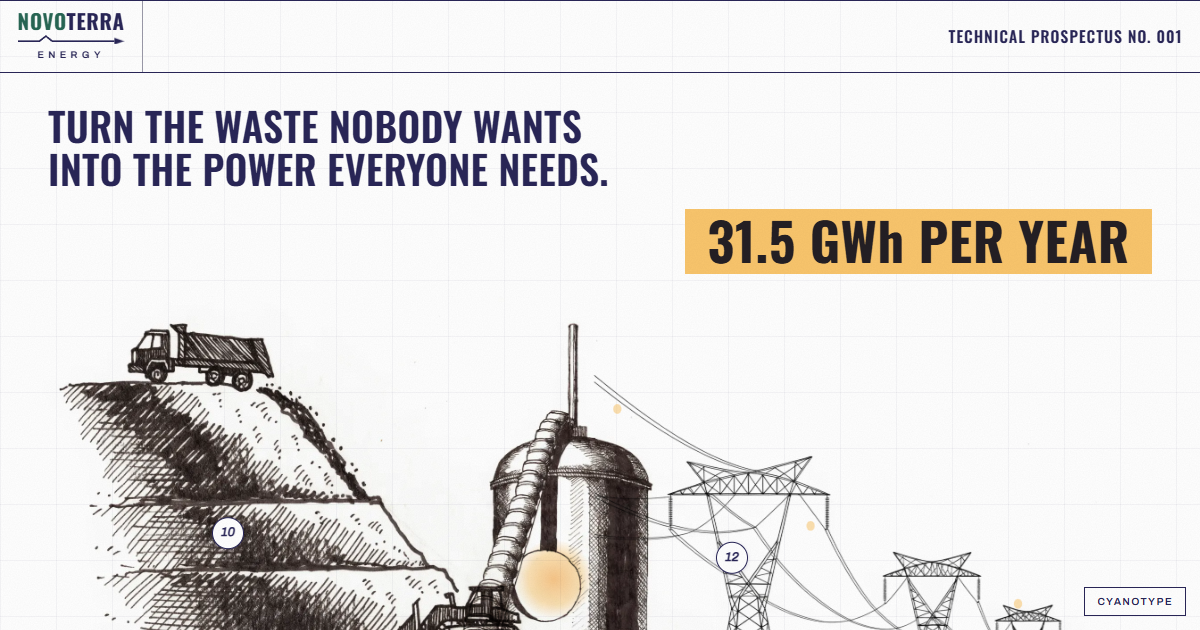
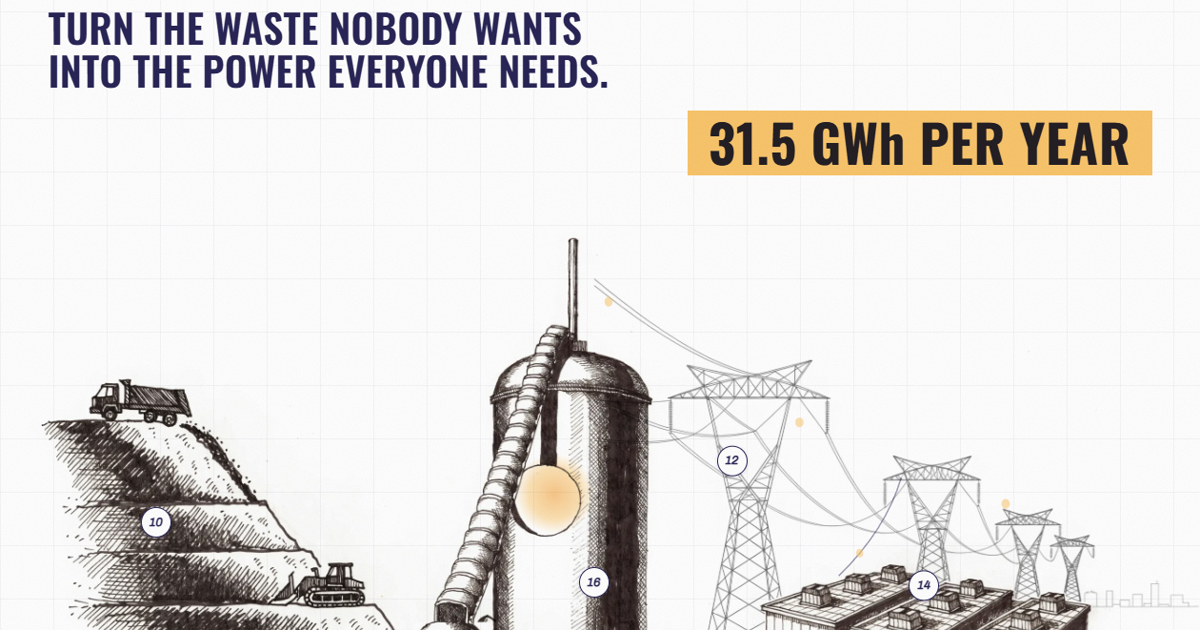
Machine triptych, scroll-only parallax, hero depth fixes

diff --git a/index.html b/index.html
@@ -159,6 +159,7 @@ h1{
 html.blueprint .hero-ember{mix-blend-mode:screen}
 .powerflow{position:absolute;inset:0;width:100%;height:100%;pointer-events:none}
 .powerflow .pulse{fill:var(--amber);opacity:.55}
+.powerflow .feeder{stroke:var(--navy);stroke-width:1.1;fill:none;opacity:.45}
 html.blueprint .powerflow .pulse{opacity:.8}
 @media (prefers-reduced-motion:reduce){
   .powerflow{display:none}
@@ -501,6 +502,7 @@ html.js .claims li.hl .cimg{opacity:1;transform:none}
 .flows dt{font-size:.72rem;letter-spacing:.1em;text-transform:uppercase;color:var(--muted);font-weight:500}
 .flows dd{font-weight:600;color:var(--ink);font-variant-numeric:tabular-nums;font-size:.98rem}
 .reactor{position:relative}
+.vessel-fig{position:relative}
 .reactor .core-glow{
   position:absolute;
   left:49.5%;top:50.5%;
@@ -538,39 +540,32 @@ html.js .claims li.hl .cimg{opacity:1;transform:none}
 .spec td:last-child{font-weight:600}
 .footnote{margin-top:1.1rem;font-size:.78rem;color:var(--muted);max-width:80ch}
 
-/* machine scroll phases: emphasis walks inputs, core, outputs (desktop only) */
+/* machine entrance: inputs, then the vessel and core note, then outputs (desktop only) */
 @media (min-width:1001px) and (prefers-reduced-motion:no-preference){
-  html.js .machine .flows,html.js .machine .reactor{transition:opacity .5s ease-out,transform .5s ease-out}
-  html.js .machine[data-phase="1"] .flows:last-of-type,
-  html.js .machine[data-phase="1"] .reactor{opacity:.4}
-  html.js .machine[data-phase="1"] .flows:first-of-type{transform:scale(1.04)}
-  html.js .machine[data-phase="2"] .flows{opacity:.4}
-  html.js .machine[data-phase="2"] .reactor{transform:scale(1.03)}
-  html.js .machine[data-phase="3"] .flows:first-of-type,
-  html.js .machine[data-phase="3"] .reactor{opacity:.4}
-  html.js .machine[data-phase="3"] .flows:last-of-type{transform:scale(1.04)}
+  html.js .machine .vessel-fig,html.js .machine .core-note{opacity:0;transform:translateY(12px);transition:opacity .6s ease-out,transform .6s ease-out}
+  html.js .machine.in .vessel-fig{opacity:1;transform:none;transition-delay:.2s}
+  html.js .machine.in .core-note{opacity:1;transform:none;transition:opacity .6s ease-out .45s,transform .6s ease-out .45s,background .4s ease-out}
 }
 
 /* core annotation */
 .core-note{
-  position:absolute;right:4%;top:-7%;width:14.5rem;
+  position:relative;width:min(22rem,92%);margin:2.4rem auto 0;
   background:var(--paper);border:1px solid var(--navy);
-  padding:.7rem .85rem .75rem;font-size:.78rem;line-height:1.5;
-  box-shadow:0 8px 22px rgba(41,38,87,.2);
+  padding:.8rem 1rem .85rem;font-size:.78rem;line-height:1.5;
+  box-shadow:0 8px 22px rgba(41,38,87,.14);
   scroll-margin-top:6rem;
   transition:background .4s ease-out;
 }
 .core-note::before{
-  content:"";position:absolute;top:62%;right:100%;
-  width:2.6rem;height:1.5px;background:var(--navy);
+  content:"";position:absolute;bottom:100%;left:50%;
+  width:1.5px;height:2.2rem;background:var(--navy);
 }
-.core-note .chead{display:block;font-size:.98rem;margin-bottom:.35rem}
+.core-note .chead{display:block;font-size:.98rem;margin-bottom:.35rem;text-align:center;text-wrap:balance}
 .core-note>span{display:block}
-.core-note .ticket{margin-top:.55rem}
 .core-note.flash{background:#fdeecd}
 @media (max-width:1000px){
-  .core-note{position:static;width:auto;margin-top:1rem;box-shadow:none}
-  .core-note::before{display:none}
+  .core-note{width:auto;margin-top:1.4rem;box-shadow:none}
+  .core-note::before{height:1.3rem}
 }
 .footnote--center{margin:.7rem auto 0;text-align:center}
 .proof-lead{max-width:66ch;margin-bottom:1.6rem;font-size:1.05rem;line-height:1.6}
@@ -698,7 +693,7 @@ html.blueprint .portrait img{filter:grayscale(1) brightness(1.05);mix-blend-mode
   .keyfigure{align-items:flex-start}
   .twocol{grid-template-columns:1fr}
   .machine{grid-template-columns:1fr}
-  .machine .reactor{order:-1;max-width:560px;margin:0 auto}
+  .machine .reactor{max-width:560px;margin:0 auto}
   .plates{grid-template-columns:1fr}
   .strip{grid-template-columns:auto 1fr}
   .strip .tag{display:none}
@@ -755,14 +750,16 @@ FINISH: unreviewed and undocumented is unfinished; this build ends with the fini
               <circle class="pulse" r="3.4"><animateMotion dur="9s" repeatCount="indefinite"><mpath href="#wirepath"/></animateMotion></circle>
               <circle class="pulse" r="3.4"><animateMotion dur="9s" begin="-3s" repeatCount="indefinite"><mpath href="#wirepath"/></animateMotion></circle>
               <circle class="pulse" r="3.4"><animateMotion dur="9s" begin="-6s" repeatCount="indefinite"><mpath href="#wirepath"/></animateMotion></circle>
+              <path id="feedpath" class="feeder" d="M751 202 C 742 228, 722 252, 699 271"/>
+              <circle class="pulse" r="3"><animateMotion dur="4.5s" repeatCount="indefinite"><mpath href="#feedpath"/></animateMotion></circle>
             </svg>
             <button class="pin" style="left:61%;top:50%" data-target="claim-2" data-part="12 · Interconnection">12</button>
           </div>
-          <div class="plx" data-depth=".3">
+          <div class="plx" data-depth=".16">
             <img src="assets/layers/l3-halls.webp" alt="">
             <button class="pin" style="left:77%;top:73%" data-target="claim-2" data-part="14 · Data center load">14</button>
           </div>
-          <div class="plx" data-depth=".6">
+          <div class="plx" data-depth=".45">
             <img src="assets/layers/l2-vessel.webp" alt="">
             <div class="hero-ember" aria-hidden="true"></div>
             <button class="pin" style="left:49.5%;top:72%" data-target="claim-core" data-part="16 · The reactor">16</button>
@@ -770,7 +767,7 @@ FINISH: unreviewed and undocumented is unfinished; this build ends with the fini
           <div class="plx" data-depth="1">
             <img src="assets/layers/l1-feedstock.webp"
                  alt="Layered pen and ink drawing: an agricultural feedstock yard with a dump truck and dozer feeds a large conversion vessel by conveyor; data center halls, transmission towers, and a city skyline recede behind it.">
-            <button class="pin" style="left:19%;top:48%"   data-target="claim-1" data-part="10 · Feedstock, the fuel">10</button>
+            <button class="pin" style="left:13%;top:60%"   data-target="claim-1" data-part="10 · Feedstock, the fuel">10</button>
           </div>
           <div class="reveal-wipe" aria-hidden="true"><i class="plothead"></i></div>
         </div>
@@ -903,12 +900,14 @@ FINISH: unreviewed and undocumented is unfinished; this build ends with the fini
       </div>
       <svg class="flowlines" aria-hidden="true"></svg>
       <div class="reactor">
-        <img src="assets/fig2-reactor.webp" width="2432" height="1792"
-             alt="Patent style cutaway drawing of the cylindrical reactor vessel on saddle stands, inlet piping entering left and outlet piping leaving right, with the circular combustion core at center.">
-        <div class="core-glow" aria-hidden="true"></div>
-        <div class="core-glow-inner" aria-hidden="true"></div>
+        <div class="vessel-fig">
+          <img src="assets/fig2-reactor.webp" width="2432" height="1792"
+               alt="Patent style cutaway drawing of the cylindrical reactor vessel on saddle stands, inlet piping entering left and outlet piping leaving right, with the circular combustion core at center.">
+          <div class="core-glow" aria-hidden="true"></div>
+          <div class="core-glow-inner" aria-hidden="true"></div>
+        </div>
         <div class="core-note" id="claim-core">
-          <b class="chead">At 2,700° Fahrenheit, PFAS dies.</b>
+          <b class="chead">At 2,700° Fahrenheit, forever chemicals end.</b>
           <span>The pressurized oxygen environment completely oxidizes the organics and destroys contaminants including PFAS, leaving a stable, glass-like vitreous slag that is safe to handle.</span>
         </div>
       </div>
@@ -1258,12 +1257,12 @@ FINISH: unreviewed and undocumented is unfinished; this build ends with the fini
   /* -------- crosshair coordinates in figure areas -------- */
   var coords=document.querySelector('.coords');
   if(finePointer){
-    document.querySelectorAll('.reactor,.plate figure').forEach(function(el){el.classList.add('figarea')});
+    document.querySelectorAll('.vessel-fig,.plate figure').forEach(function(el){el.classList.add('figarea')});
     document.querySelectorAll('.figarea').forEach(function(area){
       area.addEventListener('mousemove',function(e){
         var r=area.getBoundingClientRect();
         var overCore=false;
-        if(area.classList.contains('reactor')){
+        if(area.classList.contains('vessel-fig')){
           var cx=r.left+r.width*0.495,cy=r.top+r.height*0.505,cr=r.width*0.12;
           var dx=e.clientX-cx,dy=e.clientY-cy;
           overCore=dx*dx+dy*dy<=cr*cr;
@@ -1302,13 +1301,18 @@ FINISH: unreviewed and undocumented is unfinished; this build ends with the fini
       else if(el.classList.contains('siteplan')){el.classList.add('in');io.unobserve(el)}
       else if(el.classList.contains('spec')){runCounts();io.unobserve(el)}
       else if(el.tagName==='LI'&&el.closest('.claims')){el.classList.add('hl');io.unobserve(el)}
+      else if(el.classList.contains('machine')){el.classList.add('in');io.unobserve(el)}
       else if(el.classList.contains('seal')){el.classList.add('stamped');io.unobserve(el)}
     });
   },{threshold:.35});
   var stage=document.querySelector('.fig1-stage');
   if(stage)io.observe(stage);
   document.querySelectorAll('.claims .ticket').forEach(function(t){io.observe(t)});
-  document.querySelectorAll('.flows dl div').forEach(function(d,i){d.classList.add('flowrow');d.dataset.i=i%5;io.observe(d)});
+  document.querySelectorAll('.flows dl').forEach(function(dl,ci){
+    [].forEach.call(dl.children,function(d,i){d.classList.add('flowrow');d.dataset.i=ci*6+i;io.observe(d)});
+  });
+  var machineEl=document.querySelector('.machine');
+  if(machineEl)io.observe(machineEl);
   var seal=document.querySelector('.seal');
   if(seal)io.observe(seal);
   document.querySelectorAll('.strip').forEach(function(s){io.observe(s)});
@@ -1435,46 +1439,6 @@ FINISH: unreviewed and undocumented is unfinished; this build ends with the fini
   var rhSheet=document.querySelector('.rh-sheet');
   var docbody=document.querySelector('.docbody');
   var plxEls=[].slice.call(document.querySelectorAll('.plx'));
-  var plxCur=plxEls.map(function(){return{x:0,y:0}});
-  var plxTgt=plxEls.map(function(){return{x:0,y:0}});
-  var plxMouse=plxEls.map(function(){return{x:0,y:0}});
-  var plxScroll=plxEls.map(function(){return 0});
-  var plxRaf=null;
-  function plxTick(){
-    var live=false;
-    for(var i=0;i<plxEls.length;i++){
-      var c=plxCur[i],t=plxTgt[i];
-      c.x+=(t.x-c.x)*.14;c.y+=(t.y-c.y)*.14;
-      if(Math.abs(t.x-c.x)>.15||Math.abs(t.y-c.y)>.15)live=true;
-      plxEls[i].style.setProperty('--tx',c.x.toFixed(1)+'px');
-      plxEls[i].style.setProperty('--ty',c.y.toFixed(1)+'px');
-    }
-    plxRaf=live?requestAnimationFrame(plxTick):null;
-  }
-  function plxKick(){if(!plxRaf&&plxEls.length)plxRaf=requestAnimationFrame(plxTick)}
-  var plxStage=document.querySelector('.fig1-stage');
-  if(plxStage&&!reduce&&finePointer){
-    plxStage.addEventListener('mousemove',function(e){
-      var r=plxStage.getBoundingClientRect();
-      var mx=(e.clientX-r.left)/r.width-0.5;
-      var my=(e.clientY-r.top)/r.height-0.5;
-      for(var i=0;i<plxEls.length;i++){
-        var d=parseFloat(plxEls[i].dataset.depth);
-        plxMouse[i].x=mx*22*d;
-        plxMouse[i].y=my*10*d;
-        plxTgt[i].x=plxMouse[i].x;
-        plxTgt[i].y=plxScroll[i]+plxMouse[i].y;
-      }
-      plxKick();
-    });
-    plxStage.addEventListener('mouseleave',function(){
-      for(var i=0;i<plxEls.length;i++){
-        plxMouse[i].x=0;plxMouse[i].y=0;
-        plxTgt[i].x=0;plxTgt[i].y=plxScroll[i];
-      }
-      plxKick();
-    });
-  }
   var spinefill=document.querySelector('.spinefill');
   var reactor=document.querySelector('.reactor');
   var sections=[].slice.call(document.querySelectorAll('.docbody section'));
@@ -1510,23 +1474,13 @@ FINISH: unreviewed and undocumented is unfinished; this build ends with the fini
       var heat=Math.max(0,1-d/(innerHeight*0.75));
       reactor.style.setProperty('--heat',heat.toFixed(3));
     }
-    /* machine story phases */
-    if(machine&&innerWidth>1000){
-      var mrr=machine.getBoundingClientRect();
-      var mp=(innerHeight*0.75-mrr.top)/(mrr.height+innerHeight*0.5);
-      var phase=mp<0||mp>1.15?'0':(mp<0.38?'1':(mp<0.7?'2':'3'));
-      if(machine.dataset.phase!==phase)machine.dataset.phase=phase;
-    }
-    /* hero parallax planes: scroll component feeds the lerp targets */
+    /* hero parallax planes: scroll only, each plane locked to its depth-scaled speed */
     if(!reduce&&plxEls.length&&track){
       var tr=track.getBoundingClientRect();
       var pp=Math.max(0,Math.min(1,(innerHeight-tr.top)/(innerHeight+tr.height)));
       for(var k=0;k<plxEls.length;k++){
-        plxScroll[k]=(pp-0.5)*72*parseFloat(plxEls[k].dataset.depth);
-        plxTgt[k].y=plxScroll[k]+plxMouse[k].y;
-        plxTgt[k].x=plxMouse[k].x;
+        plxEls[k].style.setProperty('--ty',((pp-0.5)*150*parseFloat(plxEls[k].dataset.depth)).toFixed(1)+'px');
       }
-      plxKick();
     }
     /* plate orbits */
     driveOrbits();
